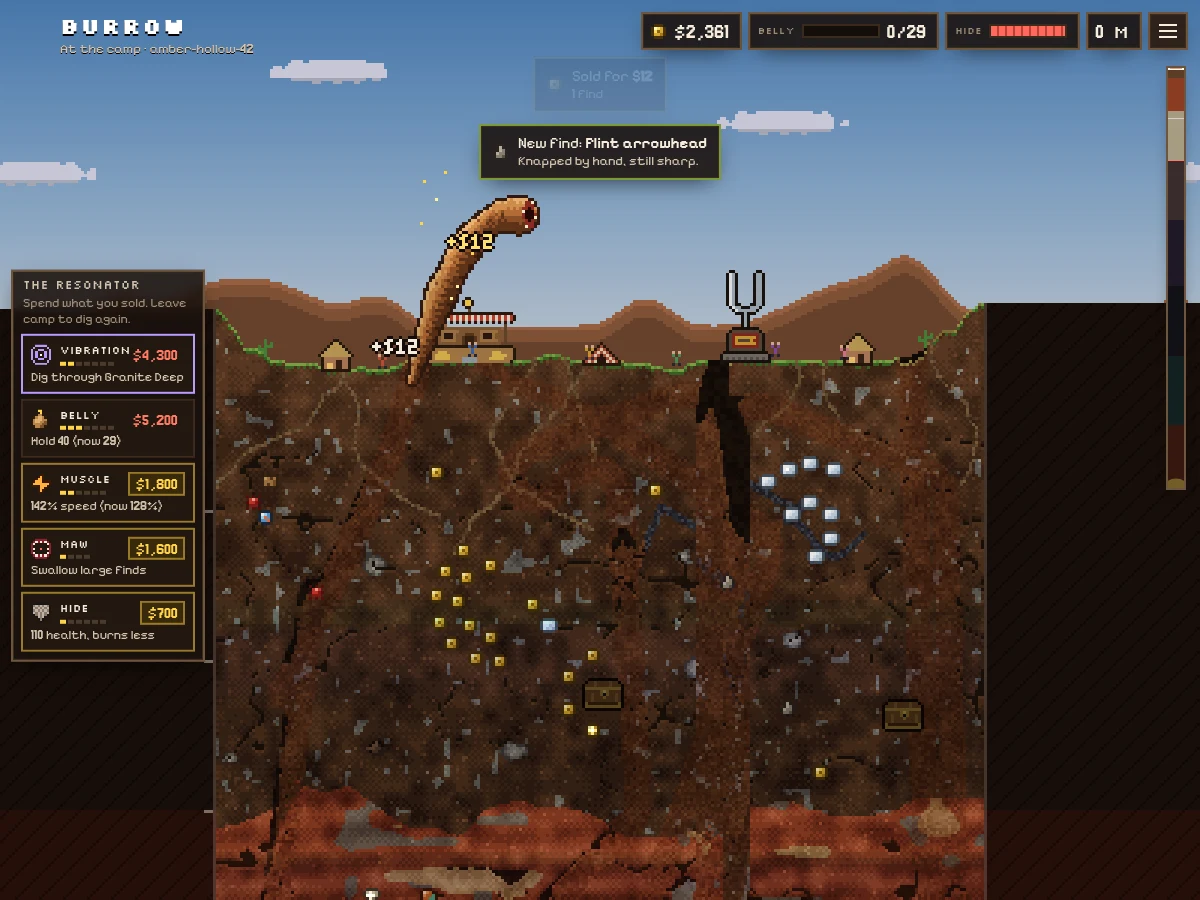
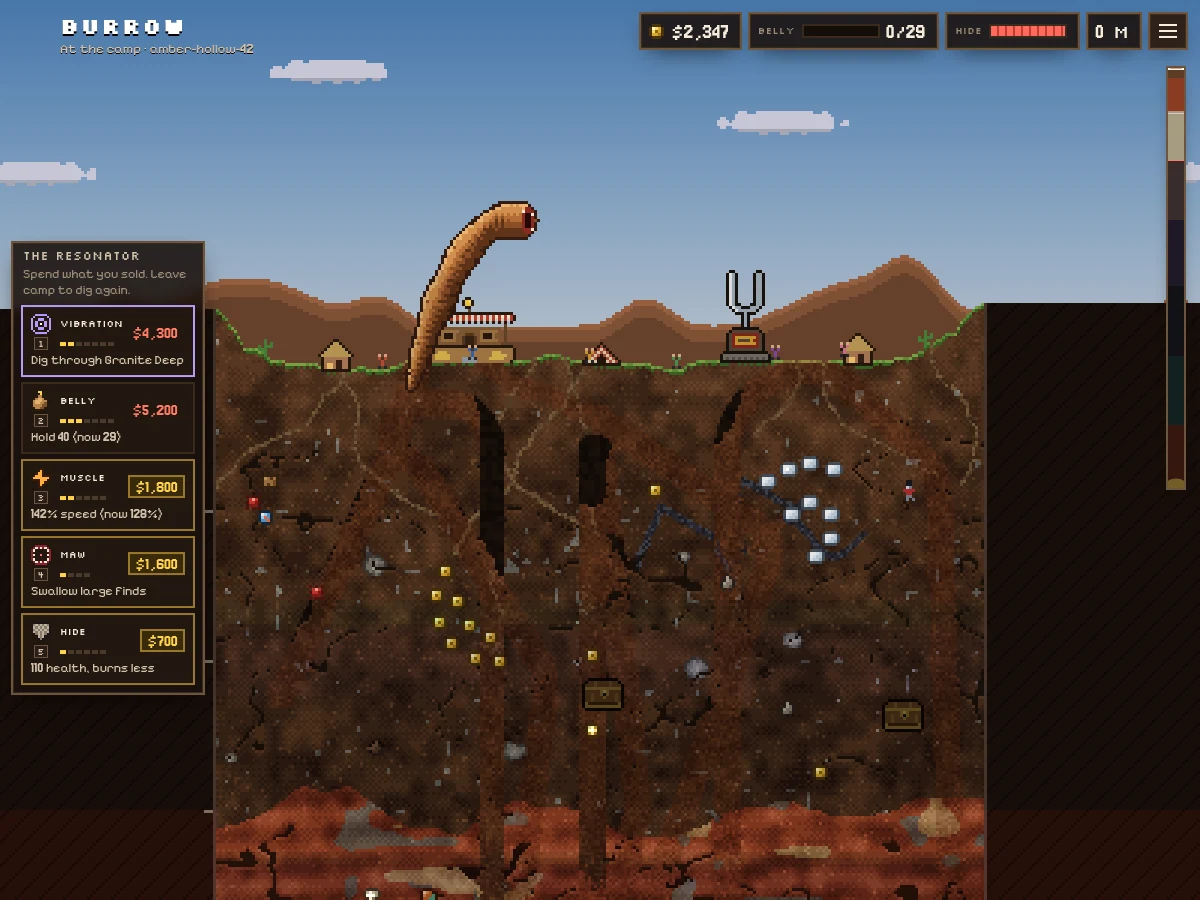
Burrow: tap and hold on a phone, the mouse or WASD on a computer, and the worm feels its way round rocks
- The words for steering match the device: on a phone or tablet the title,
  the first tip and the menu say to tap and hold where the worm should go;
  on a computer they say to hold the mouse there or steer with WASD or the
  arrow keys, and the menu lists the other keys (1-5 buy upgrades at the
  camp, Esc for the menu, M for sound). The upgrade cards show their keys.
- Touch: every finger held down is kept, so lifting the one that's steering
  hands over to another still down, and a long press shows no callout.
- Keys: WASD by where the keys are as well as by letter (so ZQSD on a French
  keyboard), browser shortcuts with Ctrl, Alt or Cmd are left alone, and a
  Mac's Cmd can't leave a key held down. Enter or Space on the title digs,
  the arrows scroll the menu while it's open, and closing it gives the keys
  back to the dig.
- Holding a key, the worm often nosed straight into a pebble's flat face and
  stuck, or wedged in a gap it couldn't fit through. Now it looks ahead and
  bends round rock it can't shake, by the smallest turn that's clear (up to
  75 degrees, so a wall still stops it), and when it does touch rock it
  slides the way it's being steered. Fieldstone in the topsoil is sparser
  (about 2% of the ground, from 5%). Holding one direction for 1.5 s, 1,920
  times across the layers, it ended up wedged 1.9% of the time, down from
  6.7%, and 5.4% in the topsoil with a new worm, down from 31.7%.
[…]

diff --git a/burrow/main.js b/burrow/main.js
@@ -49,41 +49,67 @@ function newGame(text, saved = null) {
 }
 
 /* ---------- steering ---------- */
+// Touch and hold (or hold the mouse button) where the worm should go; with more than one finger down, the last one
+// pressed steers, and lifting it hands over to another still down. Or the keys: WASD or the arrows, eight ways.
 const canvas = $('c');
 let hold = null;
-const keys = new Set();
+const holds = new Map();                              // every pointer held down on the world, oldest first
+const keys = new Map();                               // steering keys held down: the key (where it is) → which way
 canvas.addEventListener('pointerdown', e => {
   if (e.button > 0 || !playing) return;
-  canvas.setPointerCapture?.(e.pointerId);
-  hold = { x: e.clientX, y: e.clientY, id: e.pointerId, t: performance.now() };
+  try { canvas.setPointerCapture(e.pointerId); } catch { /* (it's steering all the same) */ }
+  hold = { x: e.clientX, y: e.clientY, id: e.pointerId };
+  holds.delete(e.pointerId); holds.set(e.pointerId, hold);
   canvas.classList.add('steering');
   sound.unlock();
   e.preventDefault();
 });
-canvas.addEventListener('pointermove', e => { if (hold && e.pointerId === hold.id) { hold.x = e.clientX; hold.y = e.clientY; } });
-const let_go = e => { if (hold && (!e || e.pointerId === hold.id)) { hold = null; canvas.classList.remove('steering'); } };
+canvas.addEventListener('pointermove', e => { const h = holds.get(e.pointerId); if (h) { h.x = e.clientX; h.y = e.clientY; } });
+const let_go = e => {
+  if (e) holds.delete(e.pointerId); else holds.clear();
+  hold = [...holds.values()].pop() || null;
+  if (!hold) canvas.classList.remove('steering');
+};
 canvas.addEventListener('pointerup', let_go);
 canvas.addEventListener('pointercancel', let_go);
 canvas.addEventListener('lostpointercapture', let_go);
 canvas.addEventListener('contextmenu', e => e.preventDefault());
 // Safari zooms the page on a pinch whatever the viewport says
 for (const t of ['gesturestart', 'gesturechange']) document.addEventListener(t, e => e.preventDefault());
-const STEER_KEYS = { arrowleft: [-1, 0], arrowright: [1, 0], arrowup: [0, -1], arrowdown: [0, 1], a: [-1, 0], d: [1, 0], w: [0, -1], s: [0, 1] };
+// WASD by the letter or by where the keys are (so ZQSD on a French keyboard), and the arrows
+const STEER_KEYS = { arrowleft: [-1, 0], arrowright: [1, 0], arrowup: [0, -1], arrowdown: [0, 1], a: [-1, 0], d: [1, 0], w: [0, -1], s: [0, 1],
+  KeyA: [-1, 0], KeyD: [1, 0], KeyW: [0, -1], KeyS: [0, 1] };
 addEventListener('keydown', e => {
-  if (e.target instanceof HTMLInputElement) return;
-  if (STEER_KEYS[e.key.toLowerCase()] && playing) { keys.add(e.key.toLowerCase()); sound.unlock(); e.preventDefault(); }
+  if (e.target instanceof HTMLInputElement || e.ctrlKey || e.metaKey || e.altKey) return;
+  const way = STEER_KEYS[e.key.toLowerCase()] || STEER_KEYS[e.code], digging = playing && !$('panel').classList.contains('open');
+  if (way && digging) { keys.set(e.code || e.key, way); sound.unlock(); e.preventDefault(); }
+  // 1–5 buy the Resonator's upgrades, while it's showing
+  const u = /^[1-9]$/.test(e.key) && !e.repeat && digging && !$('tray').hidden ? UPGRADES[+e.key - 1] : null;
+  if (u) { buy(u.id); const c = $('cards').querySelector(`[data-id="${u.id}"]`); c?.classList.add('pressed'); setTimeout(() => c?.classList.remove('pressed'), 140); }
+  // Enter or Space on the title digs (or carries on)
+  if ((e.key === 'Enter' || e.key === ' ') && !playing && !$('title').hidden && !(e.target instanceof HTMLButtonElement)) { e.preventDefault(); ($('continueBtn').hidden ? $('startBtn') : $('continueBtn')).click(); }
   if (e.key === 'Escape') togglePanel();
   if (e.key === 'm' || e.key === 'M') setSound(!ui.sound);
 });
-addEventListener('keyup', e => keys.delete(e.key.toLowerCase()));
+addEventListener('keyup', e => {
+  keys.delete(e.code || e.key);
+  if (e.key === 'Meta') keys.clear();                  // (a Mac sends no key-ups while ⌘ is down)
+});
 addEventListener('blur', () => { keys.clear(); let_go(); });
 function steer() {
   if (player) return;
   const w = game.worm;
   if (hold) { game.steer = view.toWorld(hold.x, hold.y); return; }
   let dx = 0, dy = 0;
-  for (const k of keys) { const v = STEER_KEYS[k]; if (v) { dx += v[0]; dy += v[1]; } }
+  for (const v of keys.values()) { dx += v[0]; dy += v[1]; }
   game.steer = dx || dy ? { x: w.x + dx * 60, y: w.y + dy * 60 } : null;
+}
+
+// How to steer, in the words for this device: a phone or tablet, or a mouse and keys.
+if (TOUCH) {
+  canvas.setAttribute('aria-label', 'The dig. Tap and hold where the worm should go.');
+  $('howto').textContent = 'Tap and hold where the worm should go. About half an hour to the core.';
+  $('howSteer').textContent = 'Tap and hold where you want the worm to go: it swims toward your finger through the ground, leaving a trail of shaken earth.';
 }
 
 /* ---------- the loop ---------- */
@@ -303,7 +329,7 @@ function toast(html, cls = '', ms = 3000) {
   el.innerHTML = html;
   for (const c of el.querySelectorAll('canvas[data-kind]')) paintIcon(c, SPRITES[c.dataset.kind], 3);
   box.prepend(el);
-  while (box.children.length > 3) box.lastChild.remove();
+  while (box.children.length > (innerHeight < 520 ? 2 : 3)) box.lastChild.remove();
   setTimeout(() => { el.classList.add('out'); setTimeout(() => el.remove(), 450); }, ms);
 }
 function bump(id) { const el = $(id); el.classList.remove('bump'); void el.offsetWidth; el.classList.add('bump'); }
@@ -320,7 +346,7 @@ paintIcon($('coinIco'), SPRITES.coin, 3);
 
 // Hints, one at a time, each shown until it's done (or for a while) and then never again.
 const HINTS = {
-  steer: () => TOUCH ? 'Hold a finger where you want the worm to go.' : 'Hold the mouse button where you want the worm to go.',
+  steer: () => TOUCH ? 'Tap and hold where you want the worm to go.' : 'Hold the mouse button where you want the worm to go, or steer with WASD or the arrow keys.',
   eat: () => 'Swallow what glitters: gems, coins, odd old things, veins of ore.',
   full: () => 'Your belly’s full. Swim back up to the camp to sell it all.',
   sell: () => 'Spend it at the Resonator. Vibration lets you shake through harder rock, and so go deeper.',
@@ -453,12 +479,14 @@ function nextText(u, l) {
 function buildCards() {
   const box = $('cards');
   box.textContent = '';
+  box.classList.toggle('keyed', !TOUCH);
   for (const u of UPGRADES) {
     const b = document.createElement('button');
     b.type = 'button'; b.className = 'card'; b.dataset.id = u.id;
     const ic = document.createElement('canvas'); ic.className = 'ico'; paintIcon(ic, ICONS[u.id], 3);
     b.innerHTML = `<span class="nm">${esc(u.name)}</span><span class="pips">${u.costs.map(() => '<i></i>').join('')}</span><span class="next"></span><span class="cost"></span>`;
     b.prepend(ic);
+    if (!TOUCH) b.insertAdjacentHTML('beforeend', `<kbd class="hot" aria-hidden="true">${UPGRADES.indexOf(u) + 1}</kbd>`);   // (its key)
     b.title = u.blurb;
     b.onclick = () => buy(u.id);
     b.onpointerenter = () => { $('trayNote').textContent = u.blurb; };
@@ -499,6 +527,7 @@ function togglePanel(open) {
   p.classList.toggle('open', o);
   $('menuBtn').setAttribute('aria-expanded', o);
   if (o) refreshMenu();
+  else if (p.contains(document.activeElement)) canvas.focus({ preventScroll: true });
 }
 $('menuBtn').onclick = () => { sound.unlock(); togglePanel(); };
 $('closePanel').onclick = () => togglePanel(false);
@@ -533,6 +562,7 @@ $('homeBtn').onclick = () => {
   game.wriggleHome(); events(); togglePanel(false);
 };
 $('diceBtn').onclick = () => { $('seedInput').value = randomSeedText(); };
+$('seedInput').addEventListener('keydown', e => { if (e.key === 'Enter') $('newBtn').click(); });
 $('newBtn').onclick = () => {
   const b = $('newBtn');
   if (playing && !ended && game.t > 30 && b.dataset.sure !== '1') { b.dataset.sure = '1'; b.textContent = 'Sure? This dig will be lost'; setTimeout(() => { b.dataset.sure = ''; b.textContent = 'Dig this world'; }, 3500); return; }

diff --git a/burrow/index.html b/burrow/index.html
@@ -18,7 +18,7 @@
   html, body { touch-action: none; overscroll-behavior: none; -webkit-text-size-adjust: 100%; text-size-adjust: 100%; }
   /* (no ligatures: Pixelify Sans draws "fi" as one odd glyph) */
   body { color: var(--ink); font: 400 15px/1.35 Digits, 'Pixelify Sans', ui-monospace, monospace; font-variant-ligatures: none; overflow: hidden; -webkit-font-smoothing: antialiased;
-    -webkit-user-select: none; user-select: none; -webkit-tap-highlight-color: transparent; background: #0b0706; }
+    -webkit-user-select: none; user-select: none; -webkit-touch-callout: none; -webkit-tap-highlight-color: transparent; background: #0b0706; }
   #c { position: fixed; inset: 0; width: 100%; height: 100%; display: block; touch-action: none; outline: none; cursor: crosshair; image-rendering: pixelated; }
   #c.steering { cursor: none; }
   [hidden] { display: none !important; }
@@ -90,7 +90,9 @@
   .tray.side .cards { grid-template-columns: 1fr; gap: 5px; }
   .tray.side .card { grid-template-columns: auto 1fr auto; grid-template-rows: auto auto; justify-items: start; align-items: center; column-gap: 9px; row-gap: 3px; min-height: 0; padding: 7px 8px; text-align: left; }
   .tray.side .card canvas { grid-row: span 2; }
-  .tray.side .card .nm { grid-column: 2; }
+  .tray.side .cards.keyed .card canvas { grid-row: 1; }
+  .tray.side .card .hot { position: static; grid-column: 1; grid-row: 2; justify-self: center; }
+  .tray.side .card .nm { grid-column: 2; font-size: 10px; letter-spacing: .02em; }
   .tray.side .card .pips { grid-column: 2; grid-row: 2; justify-content: flex-start; }
   .tray.side .card .next { grid-column: 1 / -1; grid-row: 3; font-size: 12.5px; }
   .tray.side .card .cost { grid-column: 3; grid-row: 1 / span 2; justify-self: end; font-size: 14.5px; padding: 3px 5px 2px; }
@@ -119,6 +121,8 @@
   .card .pips i.on { background: var(--gold); }
   .card.key { border-color: var(--vib); }
   .card.bought { animation: bought .5s; }
+  .card.pressed { transform: translateY(1px); border-color: var(--gold); }
+  .card .hot { position: absolute; top: 4px; left: 4px; padding: 1px 3px; font-size: 9px; color: var(--ink-2); }
   @keyframes bought { 30% { transform: translateY(-4px) scale(1.03); border-color: #fff; } }
 
   /* the menu */
@@ -148,12 +152,12 @@
   kbd { font: 400 11px/1 Silkscreen, monospace; padding: 2px 4px; border: 1px solid var(--edge); background: #2a1e16; }
 
   /* the title and the end */
-  .overlay { position: fixed; inset: 0; z-index: 30; display: grid; place-items: center; padding: 20px; box-sizing: border-box;
+  .overlay { position: fixed; inset: 0; z-index: 30; display: grid; grid-template-columns: minmax(0, 1fr); place-items: center; padding: 20px; box-sizing: border-box;
     background: radial-gradient(90% 70% at 50% 40%, rgba(20, 12, 8, .35), rgba(8, 5, 4, .82)); animation: fadeIn .5s; }
   @keyframes fadeIn { from { opacity: 0; } }
   .overlay.out { opacity: 0; transition: opacity .6s; pointer-events: none; }
   .card-big { width: min(430px, 100%); box-sizing: border-box; padding: 22px 22px 20px; text-align: center; }
-  .logo { margin: 0; font: 700 min(15vw, 64px)/1 Silkscreen, monospace; letter-spacing: .06em; color: #ffe2a8; text-shadow: 0 4px 0 #6a3a14, 0 8px 0 #2a150a, 0 0 30px rgba(255, 170, 80, .25); }
+  .logo { margin: 0; font: 700 min(10vw, 64px)/1 Silkscreen, monospace; letter-spacing: .06em; color: #ffe2a8; text-shadow: 0 4px 0 #6a3a14, 0 8px 0 #2a150a, 0 0 30px rgba(255, 170, 80, .25); }
   .tag-line { margin: 12px 0 18px; color: var(--ink-2); font-size: 16px; }
   .card-big .row { justify-content: center; }
   .card-big .howto { margin: 16px 0 0; font-size: 13.5px; color: var(--ink-3); }
@@ -167,10 +171,17 @@
   .coach-hand { position: fixed; z-index: 8; left: 0; top: 0; width: 52px; height: 52px; pointer-events: none; opacity: 0; transform-origin: 22px 3px; will-change: transform, opacity; }
   .coach-hand svg { display: block; width: 100%; height: 100%; }
 
+  /* narrower (a tablet): the numbers wrap before they reach the name, the line under it wraps, the gauge sits lower */
+  @media (max-width: 1100px) {
+    .name p { max-width: 170px; overflow-wrap: anywhere; }
+    .hud { max-width: calc(100vw - 250px); }
+    #gauge { top: calc(max(12px, env(safe-area-inset-top)) + 96px); }
+  }
   @media (max-width: 720px) {
     .name h1 { font-size: 17px; line-height: 22px; }
     .name p { font-size: 12px; }
-    .hud { gap: 4px; max-width: calc(100vw - 130px); }
+    .hud { gap: 4px; }
+    .toasts { top: calc(max(12px, env(safe-area-inset-top)) + 84px); }
     .chip { height: 32px; padding: 0 7px 0 6px; gap: 5px; }
     .chip b { font-size: 15px; }
     .chip .lbl { display: none; }
@@ -184,14 +195,19 @@
     #gauge { height: 36vh; top: calc(max(12px, env(safe-area-inset-top)) + 84px); }
   }
   @media (max-width: 560px) {
-    .name p { display: none; }
-    .toasts { top: calc(max(12px, env(safe-area-inset-top)) + 84px); }
+    .name { display: none; }                          /* (no room beside the numbers on a phone) */
+    .hud { max-width: calc(100vw - 72px); }           /* (clear of the Home button) */
+  }
+  /* a short screen (a phone on its side): smaller words that pop up */
+  @media (max-height: 520px) {
+    .toast { padding: 5px 10px; font-size: 13.5px; }
+    .toast small { font-size: 12px; }
   }
   @media (prefers-reduced-motion: reduce) { .toast, .tray, .overlay { animation: none; } }
 </style>
 </head>
 <body>
-<canvas id="c" tabindex="0" aria-label="The dig. Hold the mouse or a finger where the worm should go."></canvas>
+<canvas id="c" tabindex="0" aria-label="The dig. Hold the mouse where the worm should go, or steer with WASD or the arrow keys."></canvas>
 
 <header class="name"><h1>Burrow</h1><p id="sub">Dig to the heart of the world</p></header>
 
@@ -237,7 +253,7 @@
     <div class="setting"><div><p>Sound</p><small>Rumbles, crunches and chimes</small></div><button class="switch" id="soundSw" type="button" role="switch" aria-checked="true" aria-label="Sound"></button></div>
     <div class="setting"><div><p>Walkthrough</p><small>Show the hints again</small></div><button class="btn" id="tutBtn" type="button">Replay</button></div>
     <h3>How to play</h3>
-    <p>Hold the mouse (or a finger) where you want the worm to go; it swims toward it through the ground, leaving a trail of shaken earth. Arrow keys or WASD steer too.</p>
+    <p id="howSteer">Hold the mouse button where you want the worm to go, or steer with <kbd>W</kbd> <kbd>A</kbd> <kbd>S</kbd> <kbd>D</kbd> or the arrow keys: it swims through the ground, leaving a trail of shaken earth. At the camp, <kbd>1</kbd>–<kbd>5</kbd> buy upgrades. <kbd>Esc</kbd> opens this menu and <kbd>M</kbd> turns the sound off and on.</p>
     <p>Swallow what glitters: gems, fossils, old coins and odd relics, and veins of ore. Your belly only holds so much, so swim back up to the camp on the surface to sell it all, then buy upgrades at the Resonator.</p>
     <p><b>Vibration</b> lets you shake through harder rock, and so go deeper; rock you can't shake yet is cross-hatched. <b>Maw</b> swallows bigger finds. Break into a cave and you fall; steer into a wall or the floor to dig again.</p>
     <p>Reach the core, 6,080 m down, to win.</p>
@@ -253,7 +269,7 @@
       <button class="btn gold big" id="startBtn" type="button">Dig</button>
       <button class="btn big" id="continueBtn" type="button" hidden>Continue</button>
     </div>
-    <p class="howto">Hold the mouse, or a finger, where the worm should go. About half an hour to the core.</p>
+    <p class="howto" id="howto">Hold the mouse where the worm should go, or steer with WASD or the arrow keys. About half an hour to the core.</p>
   </div>
 </div>
 

diff --git a/burrow/sim.js b/burrow/sim.js
@@ -246,13 +246,14 @@ export class Game {
     const w = this.worm, vib = this.up.vib, base = this.topSpeed(), r = this.headR();
     w.lungeT -= dt; w.bonkT -= dt; w.hurtT += dt; w.chomp = Math.max(0, w.chomp - dt * 3);
     // where the player wants to go
-    let wx = 0, wy = 0, has = false;
+    let wx = 0, wy = 0, has = false, far = 0;
     const s = this.steer;
-    if (s) { const dx = s.x - w.x, dy = s.y - w.y, d = Math.hypot(dx, dy); if (d > 1.5) { wx = dx / d; wy = dy / d; has = true; w.want = clamp(d / 28, .28, 1); } }
+    if (s) { const dx = s.x - w.x, dy = s.y - w.y, d = Math.hypot(dx, dy); if (d > 1.5) { wx = dx / d; wy = dy / d; has = true; far = d; w.want = clamp(d / 28, .28, 1); } }
     const i0 = Math.floor(w.y) * W + Math.floor(w.x), m0 = this.cell(w.x, w.y);
     w.m = m0;
     const mode = SOLID[m0] ? 'dig' : m0 === WATER ? 'water' : m0 === LAVA ? 'lava' : 'air';
     w.mode = mode;
+    if (has && mode !== 'air') [wx, wy] = this.detour(wx, wy, far);
     w.grounded = false;
     if (mode === 'dig') {
       w.inAir = 0;
@@ -317,10 +318,12 @@ export class Game {
       // that runs along the rock, so it glides round boulders, and stops only when wedged
       const rc = this.collR();
       if (this.hardNear(nx, ny, rc) && !(this.hardNear(w.x, w.y, rc) && this.awayOK(nx, ny, rc))) {
-        // try turning the move a little at a time, whichever way the rock slopes first, and slow by how far it turned
+        // try turning the move a little at a time, and slow by how far it turned: first toward where it's being
+        // steered, if that's off to one side (else the side it's going round by, else the way the rock slopes)
         const n = this.awayFromHard(nx, ny, rc + 1.2);
         this.bonk(nx - n[0] * rc, ny - n[1] * rc, mode);
-        const first = (ux * n[1] - uy * n[0]) > 0 ? -1 : 1, step = sp * dt / steps, look = Math.max(step, .8);
+        const cr = has ? ux * wy - uy * wx : 0, step = sp * dt / steps, look = Math.max(step, .8);
+        const first = Math.abs(cr) > .08 ? Math.sign(cr) : w.side || ((ux * n[1] - uy * n[0]) > 0 ? -1 : 1);
         let ok = false;
         for (let k = 1; k <= 3 && !ok; k++) for (const sg of [first, -first]) {
           const an = Math.atan2(uy, ux) + sg * k * .44, cx = Math.cos(an), cy = Math.sin(an);
@@ -351,6 +354,26 @@ export class Game {
     // the vibration shakes loose anything granular nearby
     if ((this.tick % 12) === 0) this.wakeAt(w.x, w.y, 10 + 4 * vib);
     if (w.hurtT > WORM.regenDelay && this.hp < this.hpMax()) this.hp = Math.min(this.hpMax(), this.hp + this.hpMax() * WORM.regen * dt);
+  }
+  // Feeling ahead: rock it can't shake close in front (a pebble, a boulder, the corner of a wall), and the way it
+  // wants to go bends round it, by the smallest turn either side that gives a clear run (keeping to the side it
+  // picked while the rock's still there), rather than nosing in and sticking. Straight on if nothing's clear within
+  // 75°, so a wall still stops it, and when what it's steering at is in the rock itself.
+  detour(wx, wy, far) {
+    const w = this.worm, rc = this.collR(), sp = Math.hypot(w.vx, w.vy);
+    const L = Math.min(far, clamp(4 + rc + sp * .12, 6, 14));
+    const clear = (dx, dy) => { for (let t = 1; t <= L; t += .9) if (this.hardNear(w.x + dx * t, w.y + dy * t, rc)) return false; return true; };
+    if (clear(wx, wy)) { w.side = 0; return [wx, wy]; }
+    if (far < L + rc + 2 && this.hardNear(w.x + wx * far, w.y + wy * far, rc)) return [wx, wy];
+    const a0 = Math.atan2(wy, wx);
+    let side = w.side;
+    if (!side) side = Math.sin(Math.atan2(w.vy, w.vx) - a0) < 0 ? -1 : 1;      // the way it's already heading
+    for (let k = 1; k <= 5; k++) for (const sg of [side, -side]) {
+      const a = a0 + sg * k * .2618, dx = Math.cos(a), dy = Math.sin(a);
+      if (clear(dx, dy)) { w.side = sg; return [dx, dy]; }
+    }
+    w.side = 0;
+    return [wx, wy];
   }
   // The head's radius for bumping into rock it can't shake.
   collR() { return Math.max(1.6, this.girth() * .5); }

diff --git a/burrow/world.js b/burrow/world.js
@@ -426,7 +426,7 @@ export function buildBand(plan, b, mat, shade) {
           v = v * .8 + .2 - Math.min(.25, d / 600);
           if (h < .018) acc = 2;
           // (none where the worm starts, under the middle of the camp)
-          if (d > 5 && vnoise(x * .3, y * .3, salt[23]) > .86 && (x - W / 2) ** 2 + (d - 18) ** 2 > 400) mt = STONE;
+          if (d > 5 && vnoise(x * .3, y * .3, salt[23]) > .92 && (x - W / 2) ** 2 + (d - 18) ** 2 > 400) mt = STONE;
           break;
         case 1:
           v = v * .7 + .15 + .16 * Math.sin(y * .55 + 5 * vnoise1(x * .03, salt[24]));
